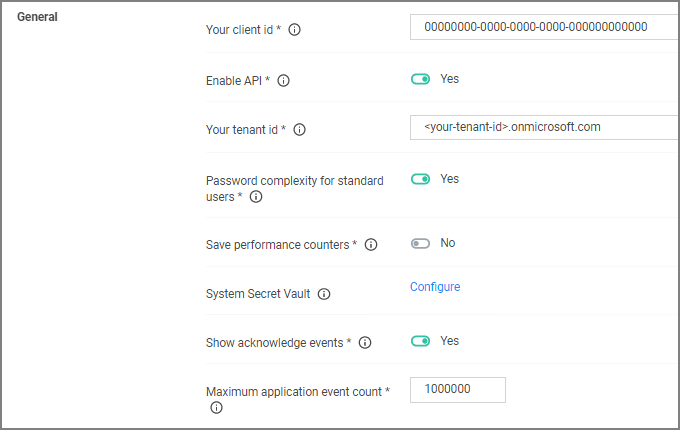
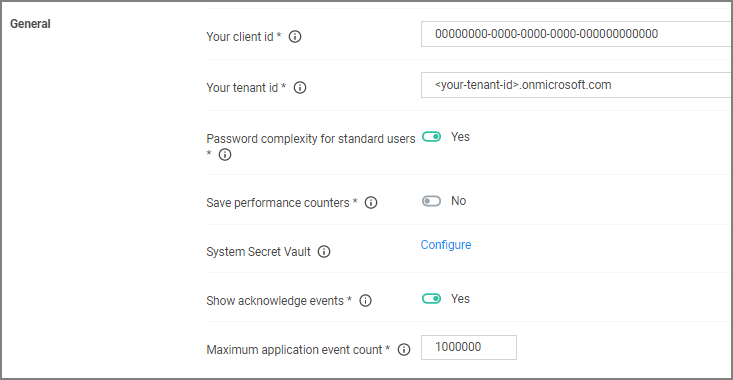
edits based on review feedback an new build

diff --git a/admin/config/advanced/adv-pm-general.md b/admin/config/advanced/adv-pm-general.md
@@ -1,4 +1,4 @@
-[title]: # (System Settings)
+[title]: # (General Settings)
 [tags]: # (general configuration)
 [priority]: # (2)
 # General System Settings
@@ -11,35 +11,23 @@ Under the Privilege Manager Server category, the first section is General settin
 
 This client id is used by __mobile devices__ for authentication.
 
-## Enable API
-
-Enabling this setting will allow authorized calls to the public facing application programming interface.
-
-1. Set the switch to Yes to enable the API.
-
-You will need to create an [API Client User](../../users#how_to_manually_add_api_client_users) and assign a role to this user.
-
 ## Your tenant id
 
 This tenant id is used by mobile devices for authentication.
 
-## Password Complexity for Standard Users
+## Password complexity for standard users
 
 This setting is set to yes by default, meaning the password complexity rules are enforced when creating or editing a Privilege Manager user resource.
 
 Refer to [Password Complexity Enforcement](../../users/pw-complexity.md) for further details.
 
-## Save Performance Counters
+## Save performance counters
 
 If this setting is selected, the performance counter data will be recorded in the database. Also refer to [Delete Old Performance Counter Events](../../tasks/maintenance.md#delete_old_performance_counter_events).
 
 ## System Secret Vault
 
 This link lets you configure the foreign system used to store secrets.
-
-## Load On Demand Flags
-
-The value is a flag set specifying what item values are allowed to be on-demand loaded. 0 none, 1 strings, 2 tags, 4 security, 8 associations, 16 data class states, 31 all.
 
 ## Show acknowledge events
 
@@ -53,4 +41,4 @@ Once you save the changes, you will see an Acknowledge All button on the Policy 
 
 ## Maximum application event count
 
-This settings specifies the Maximum number of application action events that will be kept in the database. The default setting is 1,000,000. Also refer to [Purge Maintenance - Application Control Events](../../tasks/maintenance.md#purge_maintenance___application_control_events).
+This setting specifies the Maximum number of application action events that will be kept in the database. The default setting is 1,000,000. Also refer to [Purge Maintenance - Application Control Events](../../tasks/maintenance.md#purge_maintenance___application_control_events).

diff --git a/admin/config/advanced/adv-file-inv.md b/admin/config/advanced/adv-file-inv.md
@@ -12,6 +12,8 @@ Under the File Inventory Solution the inventory hash algorithm(s) and file exten
 * VHD contents filters with default extensions of .exe, .cat, and .zip.
 * ZIP contents filters with default extensions of .exe, .cat, . msi, and .zip.
 
-When you click __Edit__ you can add other hash algorithms to the list. You can change any of the listed file extensions by adding/removing directly in the text fields. Make sure to save any changes.
-
 ![Collectors file extension filters](images/advanced/collectors.png "Inventory configuration options")
+
+1. To add inventory hash algorithms, click __Edit__. To remove them, click __x__.
+1. To change any of the listed file extensions, add or remove extensions directly in the text fields.
+1. Make sure to save any changes.

diff --git a/admin/config/advanced/index.md b/admin/config/advanced/index.md
@@ -6,11 +6,12 @@
 The Advanced tab lets you configure settings like:
 
 * [General](adv-pm-general.md)
+* [API Settings](adv-pm-api.md)
 * [Timeout](adv-pm-timeout.md)
 * [Agent](adv-pm-agent.md)
 * [Inventory](adv-file-inv.md)
 * [Monitor](adv-pm-monitor.md)
 * [Proxy](adv-pm-proxy.md)
-* [ServiceBus](adv-pm-servicebus.md)* File Inventory Solution such as
+* [ServiceBus](adv-pm-servicebus.md)
 
 To edit any of the advanced settings, make changes and then click __Save Changes__.

diff --git a/admin/config/advanced/adv-pm-api.md b/admin/config/advanced/adv-pm-api.md
@@ -1,0 +1,16 @@
+[title]: # (API Settings)
+[tags]: # (advanced configuration)
+[priority]: # (3)
+
+# API Settings
+
+## Enable API
+
+Enabling this setting will allow authorized calls to the public facing application programming interface.
+
+1. Set the switch to Yes to enable the API.
+
+   ![alt](images/api.png "API settings")
+
+
+You will need to create an [API Client User](../../users/index.md#how_to_manually_add_api_client_users) and assign a role to this user.
